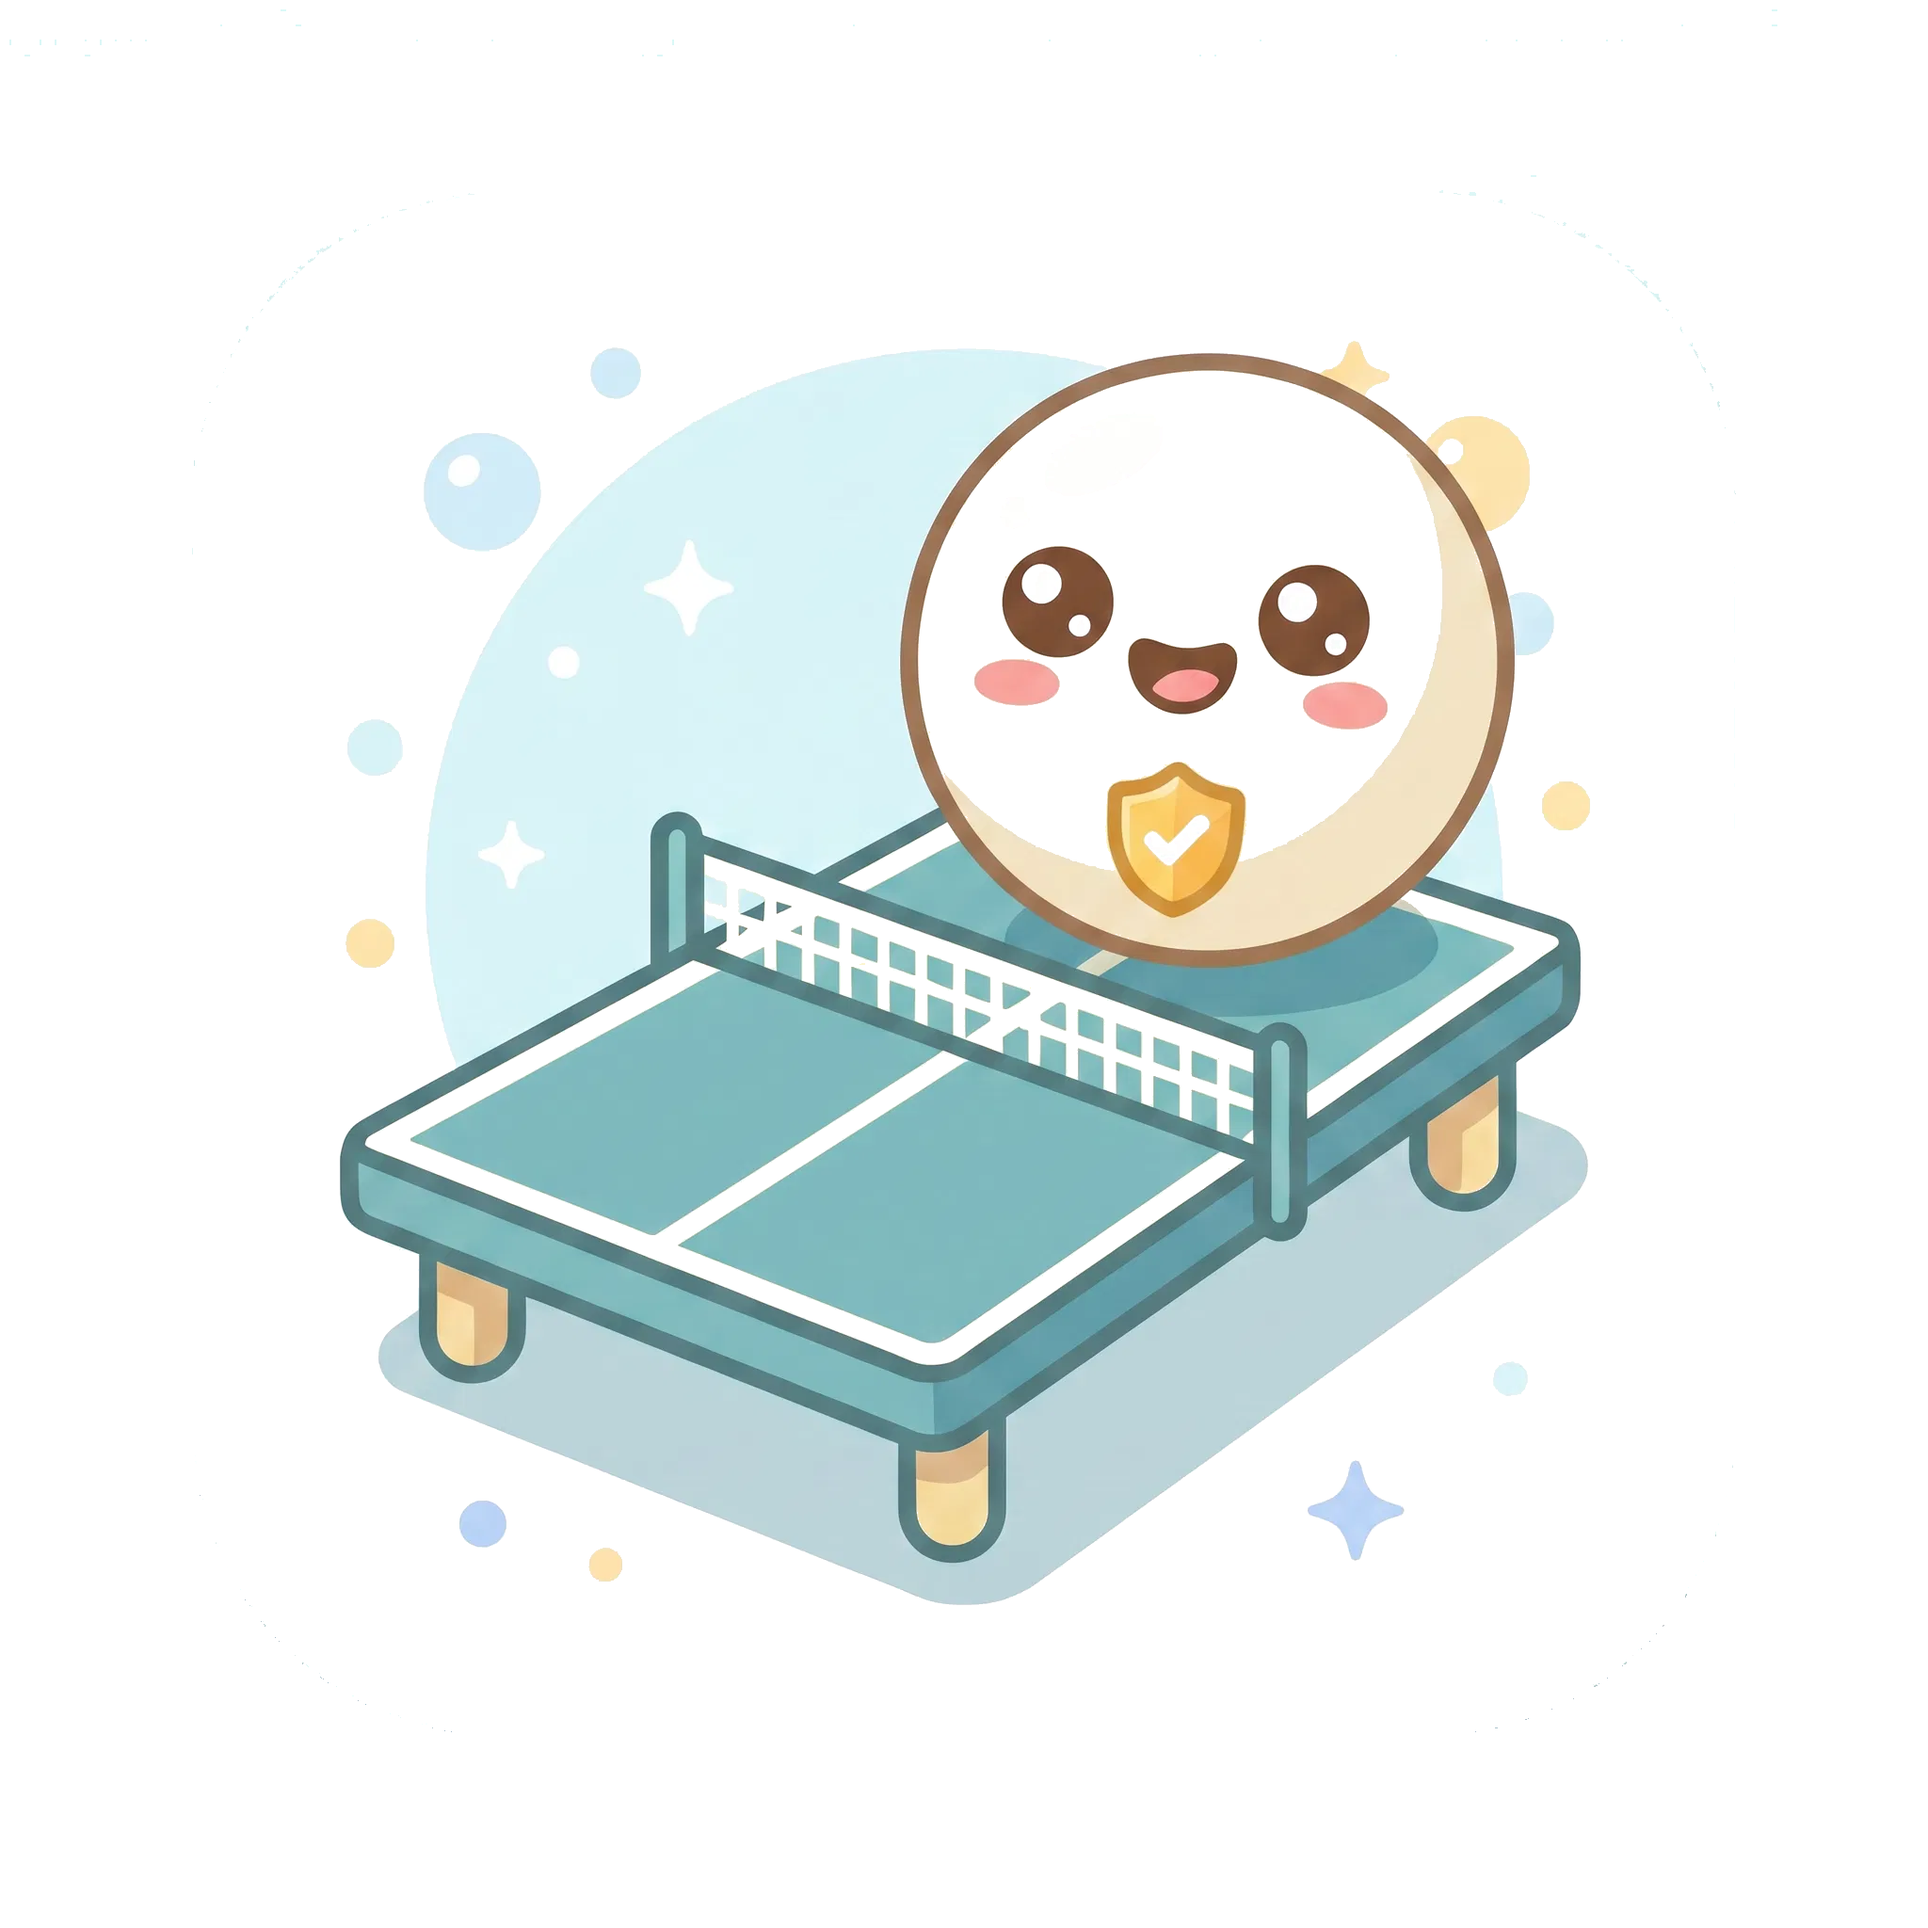
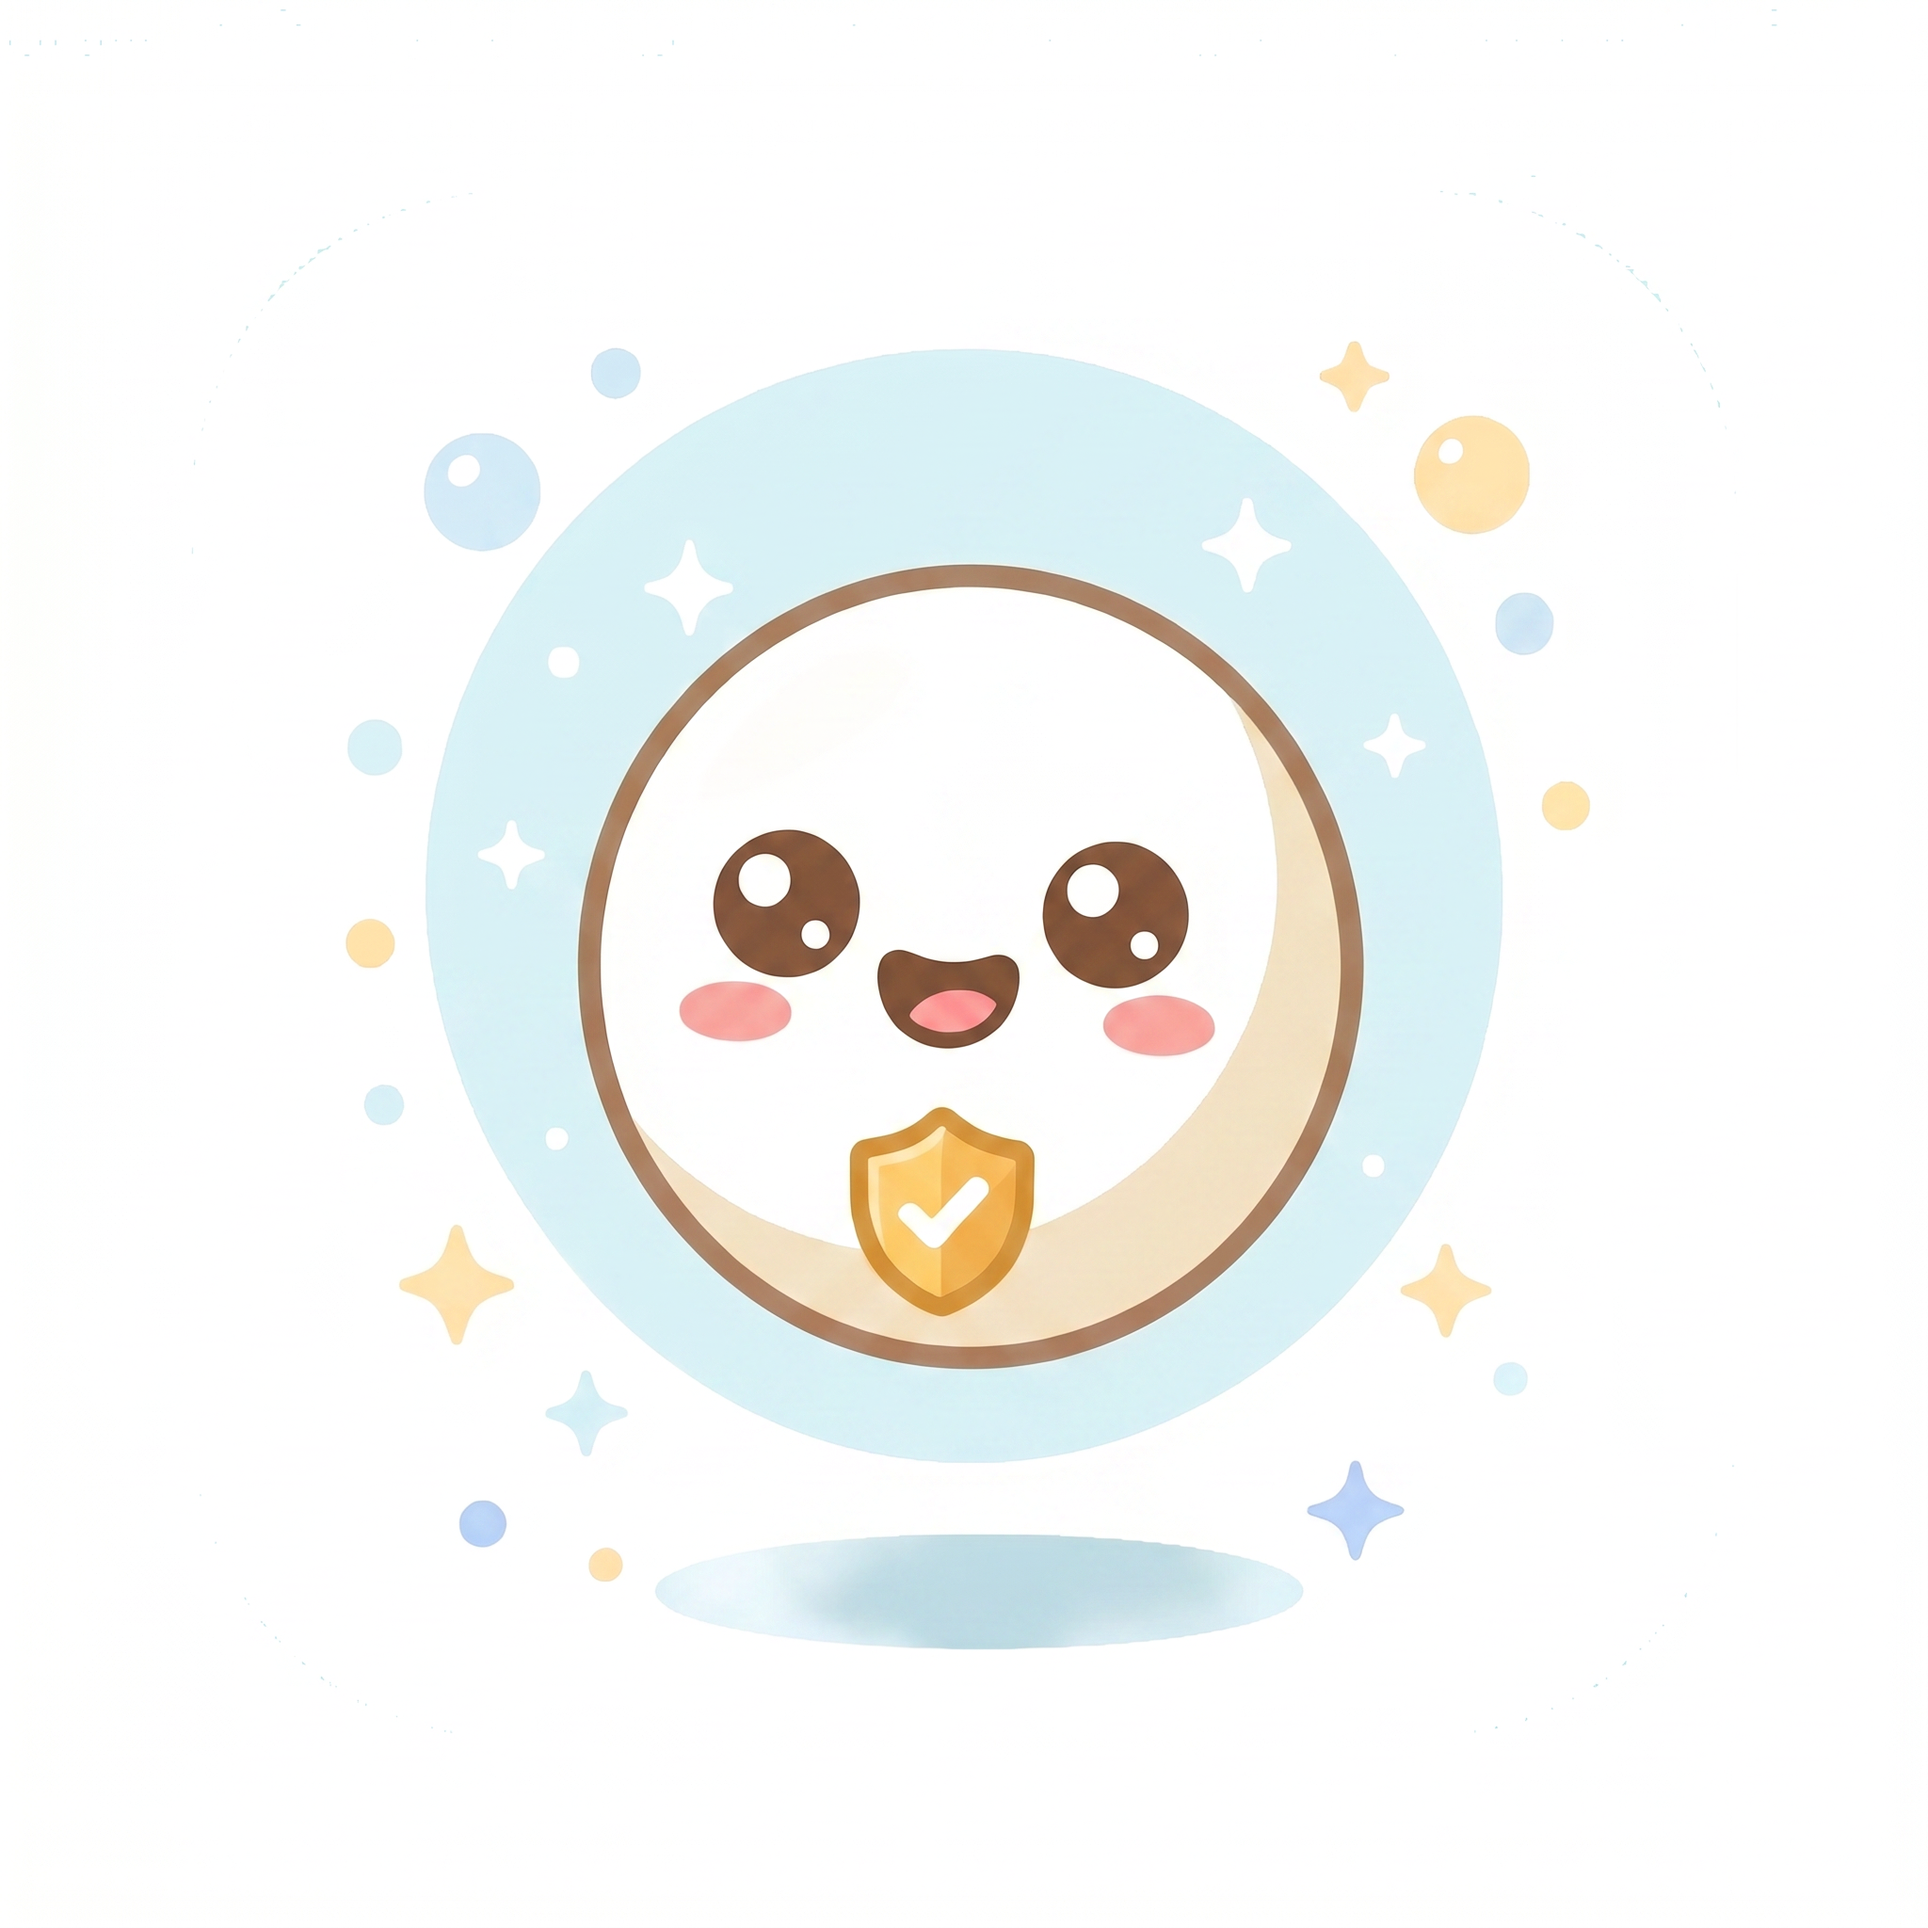
docs(popo): clean up mascot artwork & document where Popo appears in-app
- Update popo-mascot.png: remove the ping-pong table/net/legs from
  the mascot illustration; keep only Popo (the ping-pong ball with
  the verification shield) on a soft halo background. Also sync the
  same asset to frontend/public/popo-mascot.png so the marketplace
  uses the new artwork everywhere.
- README.md / README_CN.md: replace 'sits atop a table tennis table'
  wording, and add a 'Where you'll meet Popo on the platform' table
  documenting Popo's three real touchpoints in the marketplace
  (NavHeader brand mark, first-visit welcome toast, EmptyState
  illustration with popo-float animation), so the mascot section
  reflects the actual product.

Changed region(s): [[0.1562, 0.1562, 0.8438, 0.875]]

diff --git a/README.md b/README.md
@@ -254,7 +254,19 @@ Hi! I am currently a student independently developing **AgentLens**. My goal is 
 
 Before diving into Web3 and AI, I was a **professional table tennis player**. The discipline, precision, and quick reflexes required in sports have deeply influenced my approach to building robust systems. 
 
-This background also inspired **Popo**, the official mascot of AgentLens. Popo is a spirited ping-pong ball who sits atop a table tennis table, representing agility, accuracy, and the continuous "back-and-forth" verification process that our audit sandbox performs on AI agents. Just like a referee in a match, Popo ensures every agent plays by the rules before they enter the marketplace.
+This background also inspired **Popo**, the official mascot of AgentLens. Popo is a spirited little ping-pong ball who carries the project's verification badge — representing agility, accuracy, and the continuous "back-and-forth" verification process that our audit sandbox performs on AI agents. Just like a referee in a match, Popo makes sure every agent plays by the rules before it enters the marketplace.
+
+### Where you'll meet Popo on the platform
+
+Popo is not just a logo image — it is woven into three concrete touchpoints across the marketplace:
+
+| # | Surface | When it shows up | What Popo says / does |
+|---|---|---|---|
+| 1 | **Top-left brand mark** in `NavHeader` | On every page, always visible next to the *AgentLens* wordmark | Acts as the live brand anchor that ties navigation, audit pages and marketplace pages together. |
+| 2 | **First-visit welcome toast** (`#popo-welcome-root` in `index.html`) | Pops up the first time a wallet/browser opens the site (gated by `localStorage` key `agentlens_popo_v1`); auto-dismisses after a few seconds. | *"Hi, I'm Popo! 🏓 — every agent here has been verified. Browse with confidence."* |
+| 3 | **Empty-marketplace illustration** in `EmptyState` (driven by `isNoAgentsAtAll`) | Shown when the catalog has zero agents (cold-start or filtered to nothing on a fresh chain), with a gentle floating animation (`@keyframes popo-float`). | *"Popo is waiting for the first agent to be audited…"* — turning an empty state into a friendly invitation rather than a dead end. |
+
+In other words, Popo is a **trust signal** rather than decoration: when you see Popo, you are looking at a surface that the audit pipeline has already sanitized.
 
 I am actively looking for **collaborators, researchers, and open-source contributors** who are passionate about:
 * Web3 & Decentralized Infrastructure

diff --git a/README_CN.md b/README_CN.md
@@ -254,7 +254,19 @@ AgentLens 高度重视安全性。整个架构旨在最小化信任假设：
 
 在深入 Web3 和 AI 领域之前，我曾是一名**职业乒乓球运动员**。体育竞技所要求的纪律性、精准度和快速反应，深刻地影响了我构建高可靠性系统的方式。
 
-这段经历也启发了 AgentLens 的官方吉祥物——**Popo** 的诞生。Popo 是一颗充满活力的乒乓球，坐在乒乓球台上。它代表着敏捷、准确，以及我们的审计沙箱对 AI Agent 进行的持续“来回”验证过程。就像比赛中的裁判一样，Popo 确保每个 Agent 在进入市场之前都遵守规则。
+这段经历也启发了 AgentLens 的官方吉祥物——**Popo** 的诞生。Popo 是一颗充满活力的乒乓球，胸前佩戴着项目的验证护盾徽章。它代表着敏捷、准确，以及我们的审计沙箱对 AI Agent 进行的持续“来回”验证过程。就像比赛中的裁判一样，Popo 确保每个 Agent 在进入市场之前都遵守规则。
+
+### Popo 在平台里出现的位置
+
+Popo 不只是一个 Logo 图片，而是一路贯穿在市场三个真实触点上：
+
+| 序号 | 出现位置 | 触发时机 | Popo 说了什么 / 做了什么 |
+|---|---|---|---|
+| 1 | **导航栏左上角品牌标识**（`NavHeader`） | 任意页面都始终可见，紧贴在 *AgentLens* 文字标旁 | 作为品牌锚点，把导航、审计页面与市场页面串成一体。 |
+| 2 | **首次访问欢迎弹窗**（`index.html` 中的 `#popo-welcome-root`） | 某个钱包 / 浏览器首次打开站点时出现（由 `localStorage` 键 `agentlens_popo_v1` 控制），几秒后自动滑入 / 滑出。 | *“Hi，我是 Popo！🏓 这里每一个 Agent 都被验证过。请放心浏览。”* |
+| 3 | **市场为空时的占位插画**（`EmptyState`，由 `isNoAgentsAtAll` 驱动） | 当市场还没有任何 Agent 上架时（冷启动、或者新链刚部署）显示，携带轻微的 `@keyframes popo-float` 浮动动画。 | *“Popo 正在等待第一个 Agent 被审计…”* —— 把空状态从“无页可看”变成一份友好的邀请。 |
+
+换句话说，Popo 不是装饰，而是一个 **信任信号**：看到 Popo，就意味着你所出现的这个界面是被审计流水线事先洁净过的。
 
 我正在积极寻找对以下方向充满热情的 **合作者、研究人员和开源贡献者**：
 * Web3 与去中心化基础设施
